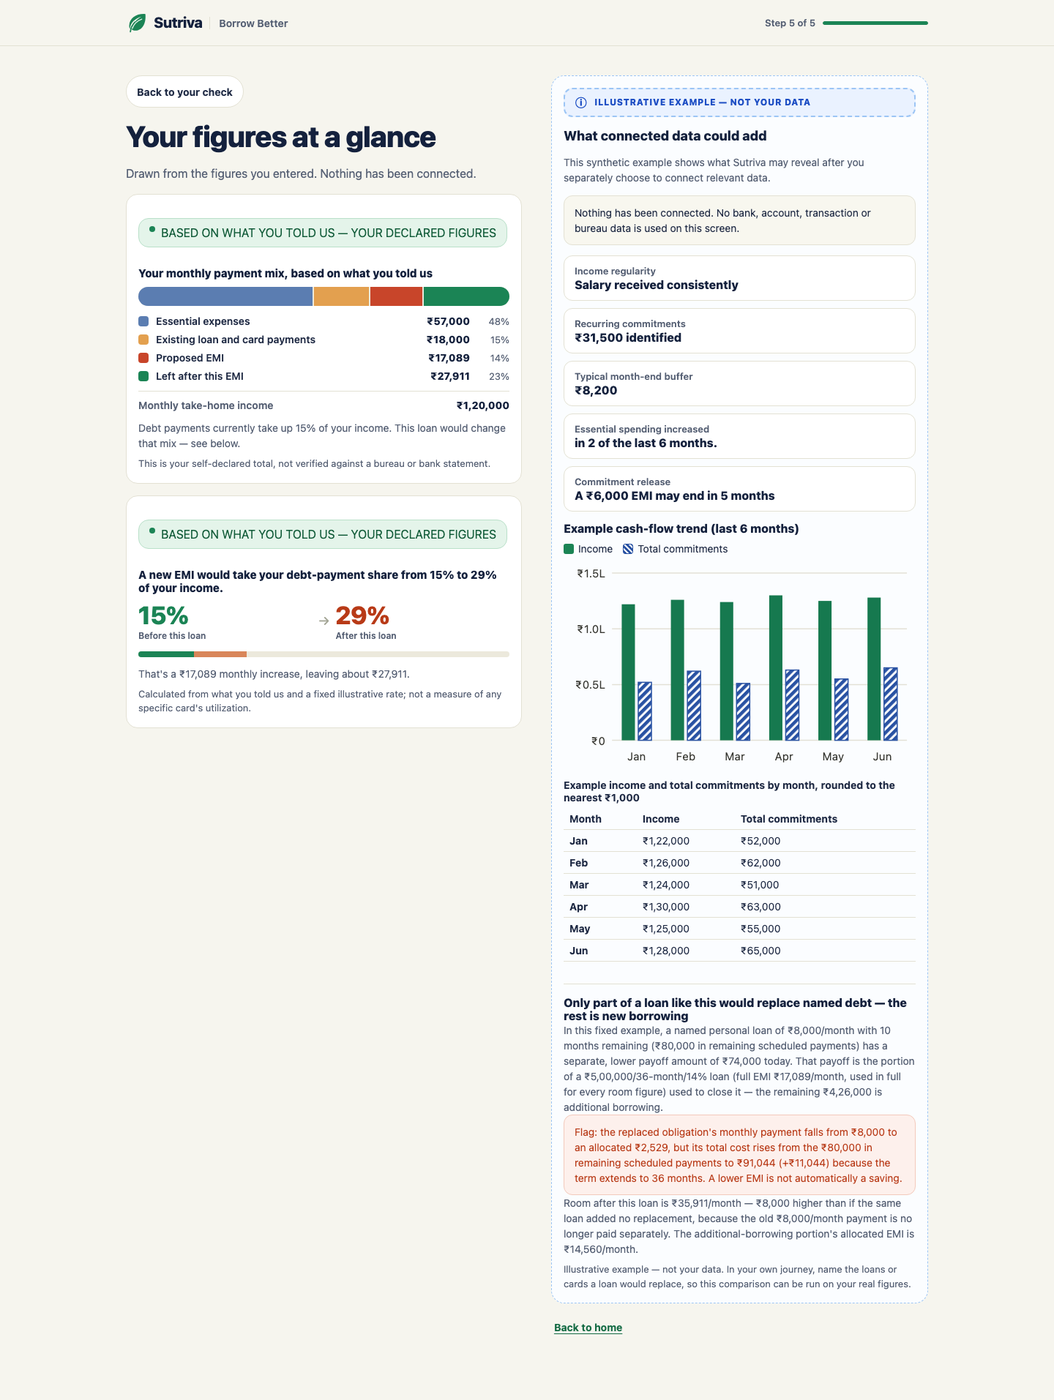
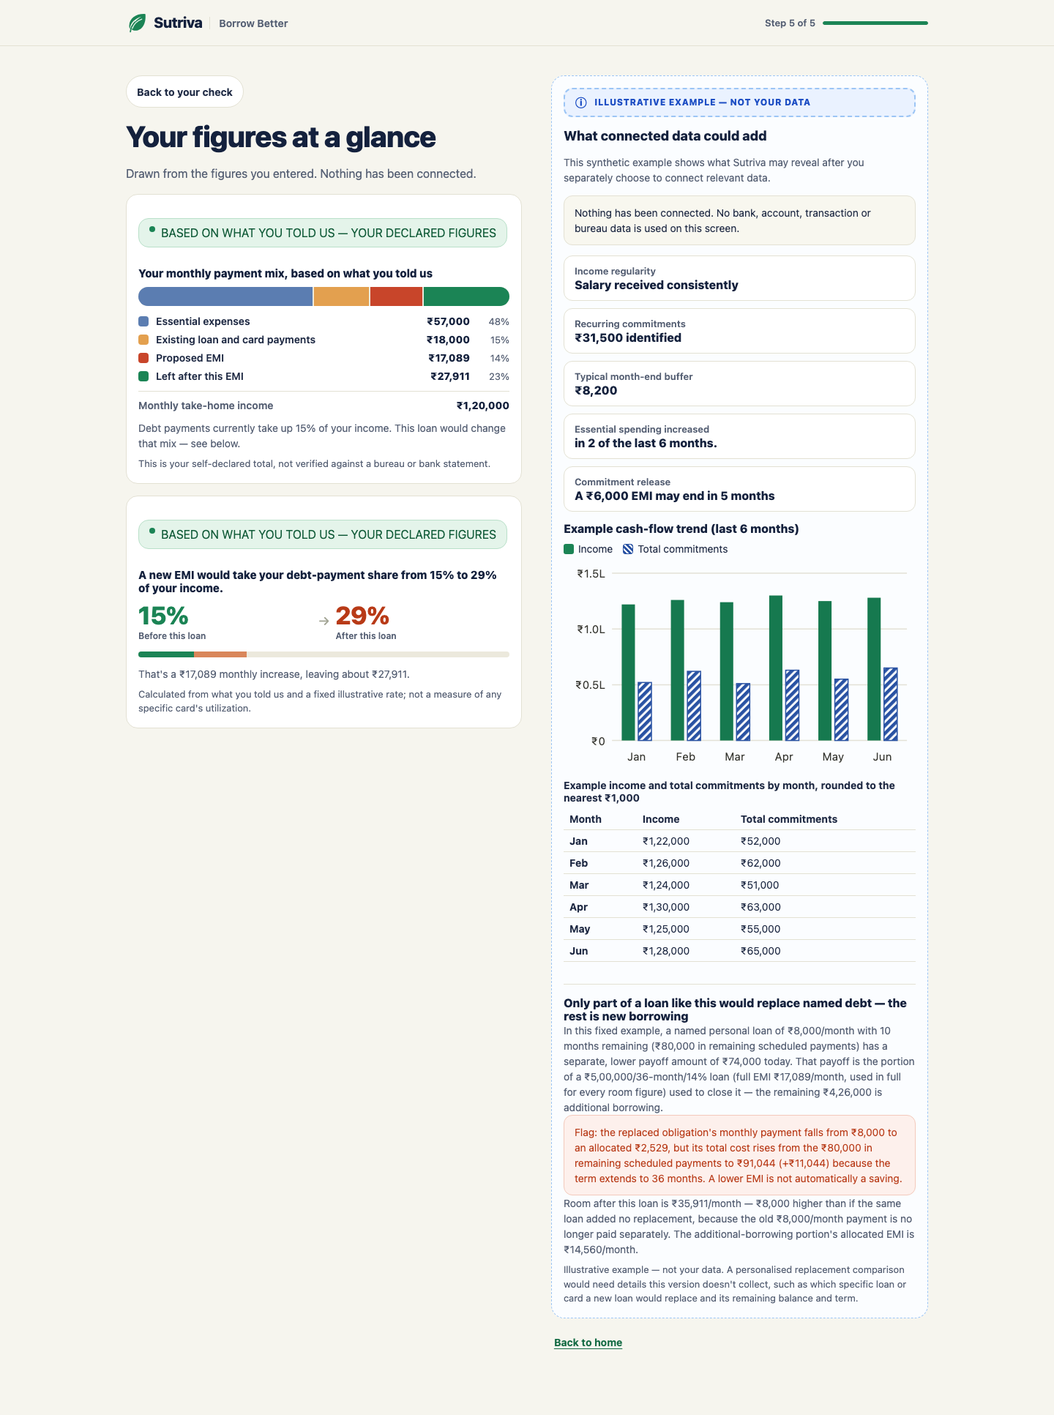
fix: remove unsupported certainty claims from Rewards/Borrow findings
Tightens the copy landed in PR #23, on the same branch. No redesign, no
new screens.

1. Rewards, "carries a balance": removed the claim that interest is
   "likely" or "usually" larger than the customer's rewards — we don't
   know their balance or APR, so that compared a real figure with an
   unknown one. The headline now reads "Before interest, your estimated
   net value is ₹X," explicitly labelled as an estimate. The separate
   ₹10,000-balance/30–42%-APR illustration is unchanged in its figures but
   now states plainly it is "a separate illustration, not a calculation
   of your own interest cost," so it is never read as a comparison with
   the customer's own number.

2. Rewards, "below fee, pays in full": removed "exactly," "not an
   estimate" and "complete result" — the annual reward figure is
   arithmetic on entered/extrapolated inputs, not a guarantee. The
   headline now says "about ₹X ... based on what you entered," and the
   explanation keeps the useful ₹80 − ₹500 = −₹420 calculation explicit.
   "Pays in full" (above fee) gets the same "about"/"based on what you
   entered, assuming you continue paying in full" framing.

3. Borrow Step 5: removed "name the loans or cards a loan would replace,
   so this comparison can be run on your real figures" from the
   "Better structure" panel and the equivalent "tell us which specific
   loans or cards ... so we can compare like-for-like" from
[…]

diff --git a/apps/pwa/app/money-value/rewardsInsight.ts b/apps/pwa/app/money-value/rewardsInsight.ts
@@ -14,10 +14,21 @@ import type { RewardsCheckResult } from "./rewardsApi";
  * `estimated_net_annual_value`, because that field is null whenever interest is unknown even though
  * rewards and fee are both already known — the very "dead end" this module exists to remove. Rewards and
  * fee are always returned once declared, so this figure is always computable and is never withheld.
+ *
+ * This is still an estimate, not a guarantee: the annual reward figure is arithmetic on what the customer
+ * entered (often a monthly amount extrapolated to a year) and assumes their spending and payment pattern
+ * continue. Copy here says so, and never claims a stronger, "exact" or "final" result than that.
+ *
+ * A genuinely known interest cost — `interest_input_basis === "known"`, which the API contract allows even
+ * though today's 1.1A Step 2/3 questions don't collect a balance or rate — always takes priority over the
+ * payment-behaviour situations below: if the backend has already worked out a real net value including
+ * interest, that is shown as the complete result instead of a before-interest estimate, so the headline
+ * never contradicts the "Based on" card's own interest line.
  */
 
 export type RewardsSituationCode =
   | "value_unknown"
+  | "known_interest"
   | "below_fee_pays_in_full"
   | "below_fee_other"
   | "above_fee_interest_unknown"
@@ -26,9 +37,9 @@ export type RewardsSituationCode =
 
 export type RewardsFinding = {
   code: RewardsSituationCode;
-  /** Rewards minus fee. Null only when the reward value itself is unknown. */
+  /** Rewards minus fee (or, for "known_interest", the real interest-adjusted net). Null only when the reward value itself is unknown. */
   netBeforeInterest: number | null;
-  /** True once this is the customer's complete result (pays in full: interest is zero, not merely excluded). */
+  /** True once this is the customer's complete result: interest is genuinely zero or genuinely known, not merely excluded. */
   isFinal: boolean;
   headline: string;
   explanation: string;
@@ -39,8 +50,8 @@ export type RewardsFinding = {
 
 /**
  * The fixed, clearly fictional interest illustration shown only when the customer says they carry a
- * balance. It is never derived from the customer's own spend or fee, never blended into their net value,
- * and never presented as their own APR or balance.
+ * balance. It is never derived from the customer's own spend or fee, never compared with or blended into
+ * their own net value or rewards figure, and never presented as their own APR or balance.
  */
 export const ILLUSTRATIVE_BALANCE = 10000;
 export const ILLUSTRATIVE_APR_LOW = 0.3;
@@ -50,7 +61,7 @@ export const ILLUSTRATIVE_INTEREST_HIGH = Math.round(ILLUSTRATIVE_BALANCE * ILLU
 
 const NO_ESTIMATE = "Nothing is estimated in its place.";
 
-function findingFor(code: RewardsSituationCode, net: number, rewards: number, fee: number): RewardsFinding {
+function findingFor(code: Exclude<RewardsSituationCode, "value_unknown" | "known_interest">, net: number, rewards: number, fee: number): RewardsFinding {
   const netDisplay = formatRupeesExact(Math.abs(net));
   const rewardsDisplay = formatRupeesExact(rewards);
   const feeDisplay = formatRupeesExact(fee);
@@ -60,11 +71,11 @@ function findingFor(code: RewardsSituationCode, net: number, rewards: number, fe
         code,
         netBeforeInterest: net,
         isFinal: true,
-        headline: `Your card costs exactly ${netDisplay} more than its rewards each year — this is your full result, not an estimate.`,
-        explanation: `You earn about ${rewardsDisplay} a year in rewards and pay a ${feeDisplay} annual fee.`,
-        why: "You pay in full, so there is no interest to add — this is your complete result.",
+        headline: `Your card costs about ${netDisplay} more than its rewards each year, based on what you entered.`,
+        explanation: `Based on the figures you entered — about ${rewardsDisplay} a year in rewards and a ${feeDisplay} annual fee — this comes to ${rewardsDisplay} − ${feeDisplay} = ${net < 0 ? "−" : ""}${netDisplay}.`,
+        why: "You pay in full, so no interest applies here — this assumes your reward rate, fee and payment pattern stay the same.",
         tryThis: "Check whether your fee can be waived, or compare this against a no-fee card.",
-        limitation: "None beyond the entered reward rate and fee — this figure is not an estimate.",
+        limitation: "Based on the reward rate and fee you entered, assumed to continue at the same level.",
       };
     case "below_fee_other":
       return {
@@ -93,33 +104,57 @@ function findingFor(code: RewardsSituationCode, net: number, rewards: number, fe
         code,
         netBeforeInterest: net,
         isFinal: true,
-        headline: `Your net value is ${netDisplay} a year, with no interest cost.`,
-        explanation: `You pay in full, so no interest is added — your net value stands at ${netDisplay}.`,
+        headline: `Your net value is about ${netDisplay} a year, with no interest cost.`,
+        explanation: `Based on what you entered, and assuming you continue paying in full, no interest is added — your net value stands at ${netDisplay}.`,
         why: "Paying in full each month means interest never applies to this card.",
         tryThis: "None required — optionally, see how this changes if your fee is waived.",
-        limitation: "Assumes you continue paying in full.",
+        limitation: "Assumes you continue paying in full, and that your reward rate and fee stay the same.",
       };
     case "carries_balance":
       return {
         code,
         netBeforeInterest: net,
         isFinal: false,
-        headline: `Your net value before interest is ${netDisplay}, but interest on your balance is likely larger than your rewards.`,
-        explanation: `Your net value is ${netDisplay} before interest. Interest is usually far larger than the rewards you earn on it.`,
-        why: "Rewards are calculated before interest. If you carry a balance, interest is usually far larger than the rewards you earn on it.",
-        tryThis: "If you often carry a balance, paying it down is likely worth more than these rewards.",
-        limitation: "The interest range shown is illustrative, not your card's actual rate.",
+        headline: `Before interest, your estimated net value is ${netDisplay}.`,
+        explanation: `This is an estimate based on the rewards and fee you entered, before any interest. We don't know your card balance or interest rate, so no interest is included here.`,
+        why: "Interest depends on your balance and your card's interest rate, which we don't have.",
+        tryThis: "See the separate illustration below of what carrying a balance could cost, based on an example balance and rate — not your own figures.",
+        limitation: "This before-interest figure is an estimate based on what you entered; it does not include any interest you may pay.",
       };
     default:
       throw new Error(`unreachable: ${code}`);
   }
 }
 
+/** The one situation where the backend already knows a real, interest-adjusted net value. */
+function knownInterestFinding(result: RewardsCheckResult, net: number, rewards: number, fee: number): RewardsFinding {
+  const interest = result.estimated_annual_interest_cost ?? 0;
+  const netDisplay = formatRupeesExact(Math.abs(net));
+  const rewardsDisplay = formatRupeesExact(rewards);
+  const feeDisplay = formatRupeesExact(fee);
+  const interestDisplay = formatRupeesExact(interest);
+  return {
+    code: "known_interest",
+    netBeforeInterest: net,
+    isFinal: true,
+    headline:
+      net < 0
+        ? `Your card costs about ${netDisplay} more than its rewards each year, including your estimated interest cost.`
+        : `Your net value is about ${netDisplay} a year, including your estimated interest cost.`,
+    explanation: `Based on what you entered: about ${rewardsDisplay} a year in rewards, a ${feeDisplay} annual fee, and an estimated ${interestDisplay} in interest.`,
+    why: "This includes your estimated interest cost, not just rewards minus fee.",
+    tryThis: net < 0 ? "Check whether your fee can be waived, or compare this against a no-fee card." : "None required — this already includes your estimated interest cost.",
+    limitation: "Includes an estimated annual interest cost, based on the balance and rate you provided.",
+  };
+}
+
 /**
- * Priority order (first match wins): reward value unknown; below fee and pays in full (final, exact);
- * below fee otherwise (hedged); above fee with interest unknown; pays in full (final); carries a balance
- * (before-interest figure plus a separate fixed illustration). Payment behaviour is checked in both the
- * below-fee and above-fee branches, not only one of them.
+ * Priority order (first match wins): reward value unknown; a genuinely known interest cost (rare in
+ * today's 1.1A flow, but always shown as the complete result when the backend has it, never contradicted
+ * by a before-interest estimate); below fee and pays in full (an estimate, not a guarantee); below fee
+ * otherwise (hedged); above fee with interest unknown; pays in full; carries a balance (before-interest
+ * estimate plus a separate fixed illustration). Payment behaviour is checked in both the below-fee and
+ * above-fee branches, not only one of them.
  */
 export function selectRewardsSituation(result: RewardsCheckResult, balanceBehavior: BalanceBehavior | null): RewardsFinding {
   const rewards = result.estimated_annual_rewards;
@@ -137,6 +172,11 @@ export function selectRewardsSituation(result: RewardsCheckResult, balanceBehavi
   }
 
   const fee = result.annual_card_fee;
+
+  if (result.interest_input_basis === "known" && result.estimated_net_annual_value !== null) {
+    return knownInterestFinding(result, result.estimated_net_annual_value, rewards, fee);
+  }
+
   const net = rewards - fee;
 
   if (net < 0) {
@@ -149,5 +189,5 @@ export function selectRewardsSituation(result: RewardsCheckResult, balanceBehavi
 
 /** The separate, explicitly fictional interest illustration shown only for the "carries a balance" situation. */
 export function illustrativeInterestLine(): string {
-  return `For illustration only — someone carrying a ₹${ILLUSTRATIVE_BALANCE.toLocaleString("en-IN")} balance at an illustrative ${Math.round(ILLUSTRATIVE_APR_LOW * 100)}–${Math.round(ILLUSTRATIVE_APR_HIGH * 100)}% simple APR would pay roughly ₹${ILLUSTRATIVE_INTEREST_LOW.toLocaleString("en-IN")}–₹${ILLUSTRATIVE_INTEREST_HIGH.toLocaleString("en-IN")} a year in interest.`;
+  return `For illustration only — someone carrying a ₹${ILLUSTRATIVE_BALANCE.toLocaleString("en-IN")} balance at an illustrative ${Math.round(ILLUSTRATIVE_APR_LOW * 100)}–${Math.round(ILLUSTRATIVE_APR_HIGH * 100)}% simple APR would pay roughly ₹${ILLUSTRATIVE_INTEREST_LOW.toLocaleString("en-IN")}–₹${ILLUSTRATIVE_INTEREST_HIGH.toLocaleString("en-IN")} a year in interest. This is a separate illustration, not a calculation of your own interest cost.`;
 }

diff --git a/apps/pwa/app/money-value/rewardsInsight.test.ts b/apps/pwa/app/money-value/rewardsInsight.test.ts
@@ -26,12 +26,18 @@ describe("selectRewardsSituation", () => {
     expect(finding.headline).toBe("We need your monthly reward value to show anything here.");
   });
 
-  it("worked check: rewards ₹80, fee ₹500 → −₹420, shown as the exact final figure when paying in full", () => {
+  it("worked check: rewards ₹80, fee ₹500 → −₹420 when paying in full, stated as an estimate from what was entered, not an exact/complete/final claim", () => {
     const finding = selectRewardsSituation({ ...base, estimated_annual_rewards: 80, annual_card_fee: 500 }, "pay_in_full");
     expect(finding.code).toBe("below_fee_pays_in_full");
     expect(finding.netBeforeInterest).toBe(-420);
     expect(finding.isFinal).toBe(true);
-    expect(finding.headline).toBe("Your card costs exactly ₹420 more than its rewards each year — this is your full result, not an estimate.");
+    expect(finding.headline).toBe("Your card costs about ₹420 more than its rewards each year, based on what you entered.");
+    expect(finding.headline).not.toMatch(/exactly|not an estimate|complete result/i);
+    expect(finding.explanation).toContain("₹80");
+    expect(finding.explanation).toContain("₹500");
+    expect(finding.explanation).toContain("−₹420");
+    expect(finding.explanation).not.toMatch(/not an estimate|complete result/i);
+    expect(finding.limitation).not.toMatch(/not an estimate/i);
   });
 
   it("shows the same −₹420 as a hedged figure, not a final one, when the customer carries a balance or is not sure", () => {
@@ -58,21 +64,68 @@ describe("selectRewardsSituation", () => {
     expect(finding.netBeforeInterest).toBe(6800);
   });
 
-  it("shows ₹6,800 as the final figure, with no interest cost, when the customer pays in full", () => {
+  it("shows ₹6,800 as the figure, with no interest cost, when the customer pays in full", () => {
     const finding = selectRewardsSituation({ ...base, estimated_annual_rewards: 10800, annual_card_fee: 4000 }, "pay_in_full");
     expect(finding.code).toBe("pays_in_full");
     expect(finding.netBeforeInterest).toBe(6800);
     expect(finding.isFinal).toBe(true);
-    expect(finding.headline).toBe("Your net value is ₹6,800 a year, with no interest cost.");
+    expect(finding.headline).toBe("Your net value is about ₹6,800 a year, with no interest cost.");
   });
 
-  it("shows the before-interest ₹6,800 plus the carries-a-balance framing when the customer carries a balance", () => {
+  it("shows the before-interest ₹6,800 as an estimate for 'carries a balance', without claiming to know their interest exceeds their rewards", () => {
     const finding = selectRewardsSituation({ ...base, estimated_annual_rewards: 10800, annual_card_fee: 4000 }, "carry_balance");
     expect(finding.code).toBe("carries_balance");
     expect(finding.netBeforeInterest).toBe(6800);
     expect(finding.isFinal).toBe(false);
-    expect(finding.headline).toContain("₹6,800");
-    expect(finding.headline).toContain("interest on your balance is likely larger than your rewards");
+    expect(finding.headline).toBe("Before interest, your estimated net value is ₹6,800.");
+    // We don't know the customer's balance or APR, so nothing here may claim their interest is
+    // "likely" or "usually" larger than their rewards — that would compare a real figure with an unknown one.
+    const allCopy = `${finding.headline} ${finding.explanation} ${finding.why} ${finding.tryThis} ${finding.limitation}`;
+    expect(allCopy).not.toMatch(/likely (is |be )?larger|usually (far )?larger|interest.*larger than.*rewards/i);
+    expect(finding.explanation).toContain("estimate");
+  });
+
+  it("shows the backend's own known interest-adjusted net value as the complete result, ahead of any payment-behaviour situation", () => {
+    // interest_input_basis "known" exists in the API contract (the legacy page's "I know my balance and
+    // rate" path) even though today's 1.1A Step 2/3 never collects enough to produce it. If the backend
+    // ever does return it, the headline must use it, not silently fall back to a before-interest estimate
+    // that would then contradict the "Based on" card's own interest line.
+    const known: RewardsCheckResult = {
+      ...base,
+      estimated_annual_rewards: 10800,
+      annual_card_fee: 4000,
+      interest_input_basis: "known",
+      interest_value_known: true,
+      estimated_annual_interest_cost: 3000,
+      estimated_net_annual_value: 3800,
+    };
+    const finding = selectRewardsSituation(known, "carry_balance");
+    expect(finding.code).toBe("known_interest");
+    expect(finding.netBeforeInterest).toBe(3800);
+    expect(finding.isFinal).toBe(true);
+    expect(finding.headline).toBe("Your net value is about ₹3,800 a year, including your estimated interest cost.");
+    expect(finding.explanation).toContain("₹3,000");
+  });
+
+  it("states a known negative net value (interest included) as costing more than rewards, not as a before-interest estimate", () => {
+    const known: RewardsCheckResult = {
+      ...base,
+      estimated_annual_rewards: 10800,
+      annual_card_fee: 4000,
+      interest_input_basis: "known",
+      interest_value_known: true,
+      estimated_annual_interest_cost: 9000,
+      estimated_net_annual_value: -2200,
+    };
+    const finding = selectRewardsSituation(known, null);
+    expect(finding.code).toBe("known_interest");
+    expect(finding.netBeforeInterest).toBe(-2200);
+    expect(finding.headline).toBe("Your card costs about ₹2,200 more than its rewards each year, including your estimated interest cost.");
+  });
+
+  it("still shows the missing-value situation when the reward value is unknown, even if interest is known", () => {
+    const finding = selectRewardsSituation({ ...base, estimated_annual_rewards: null, interest_input_basis: "known", estimated_net_annual_value: -500 }, null);
+    expect(finding.code).toBe("value_unknown");
   });
 
   it("change one input, watch the conclusion move: fee ₹4,000 → ₹0 turns 'the fee is the drag' into 'you keep the full amount'", () => {

diff --git a/apps/pwa/app/borrow-better/borrowInsight.ts b/apps/pwa/app/borrow-better/borrowInsight.ts
@@ -86,15 +86,20 @@ export type ConsolidationCaveat = {
  * specific obligations a loan replaces, so the full amount is treated as additional borrowing, not a
  * confirmed replacement. Returns null for any other purpose — this caveat is never shown as a conclusion
  * about a customer who didn't select debt consolidation.
+ *
+ * `tryThis` never instructs the customer to "tell us" which obligations a loan replaces: this journey has
+ * no field to collect that, so doing so would be a dead end (an instruction with no way to act on it). It
+ * points instead to the illustrative "Better structure" panel, which shows what a genuine replacement
+ * comparison would look like once those details are known.
  */
 export function consolidationCaveat(loanPurpose: string, loanAmountDisplay: string): ConsolidationCaveat | null {
   if (loanPurpose !== "debt_consolidation") return null;
   return {
     headline: "This is new borrowing alongside your existing payments, not a straight replacement.",
-    explanation: `We don't yet know which specific obligation(s) this ${loanAmountDisplay} loan replaces, so the full amount is treated as additional borrowing on top of what you already pay.`,
+    explanation: `We don't know which specific obligation(s) this ${loanAmountDisplay} loan replaces, so the full amount is treated as additional borrowing on top of what you already pay.`,
     why: "Calling this consolidation would overstate how much existing debt it actually clears.",
-    tryThis: "Tell us which specific loans or cards this would replace, so we can compare like-for-like.",
-    limitation: "We have not confirmed this replaces any specific existing obligation.",
+    tryThis: "See the illustrative example below of how a genuine replacement comparison would work, once specific obligations are known.",
+    limitation: "A personalised replacement comparison would need details this version doesn't collect, such as which obligation a loan replaces and its remaining balance and term.",
   };
 }
 

diff --git a/apps/pwa/app/money-value/RewardsJourney.test.tsx b/apps/pwa/app/money-value/RewardsJourney.test.tsx
@@ -623,11 +623,15 @@ describe("Rewards Intelligence 1.1A steps 2-5", () => {
       // Rewards minus fee is known and shown, not withheld as "can't calculate" — the "dead end" this fixes.
       expect(screen.getByText("Net annual value (before interest)").nextSibling).toHaveTextContent("₹6,800");
       expect(screen.getByText("Interest impact is unknown. No interest cost has been assumed.")).toBeInTheDocument();
-      expect(screen.getByText(/Your net value before interest is ₹6,800, but interest on your balance is likely larger than your rewards\./)).toBeInTheDocument();
-      // The separate, explicitly fictional illustration — never merged into the customer's own ₹6,800.
+      expect(screen.getByText("Before interest, your estimated net value is ₹6,800.")).toBeInTheDocument();
+      // Never claims to know that the customer's own interest is "likely" or "usually" larger than their
+      // rewards — we don't know their balance or APR, so that would compare a real figure with an unknown one.
+      expect(screen.queryByText(/likely.*larger|usually.*larger than.*rewards/i)).toBeNull();
+      // The separate, explicitly fictional illustration — never merged into or compared with the customer's own ₹6,800.
       expect(screen.getByText(/Illustrative only, not your figures/)).toBeInTheDocument();
       expect(screen.getByText(/₹10,000 balance/)).toBeInTheDocument();
       expect(screen.getByText(/₹3,000–₹4,200/)).toBeInTheDocument();
+      expect(screen.getByText(/not a calculation of your own interest cost/)).toBeInTheDocument();
     });
 
     it("shows an unknown reward value as unknown, not zero, with no chart until a value is entered", async () => {

diff --git a/apps/pwa/app/borrow-better/steps/ConnectedExampleStep.tsx b/apps/pwa/app/borrow-better/steps/ConnectedExampleStep.tsx
@@ -256,7 +256,7 @@ export function ConnectedExampleStep({ form, result, focusHeadingOnMount, exampl
               {`Room after this loan is ${formatRupees(WHOLE_LOAN_ROOM_AFTER)}/month — ${formatRupees(ROOM_DIFFERENCE_VS_ADDITIONAL_BORROWING_ONLY)} higher than if the same loan added no replacement, because the old ${formatRupees(OLD_OBLIGATION_MONTHLY_PAYMENT)}/month payment is no longer paid separately. The additional-borrowing portion's allocated EMI is ${formatRupees(ADDITIONAL_BORROWING_ALLOCATED_EMI)}/month.`}
             </p>
             <p className={ui.disclaimer} style={{ marginTop: 8 }}>
-              Illustrative example — not your data. In your own journey, name the loans or cards a loan would replace, so this comparison can be run on your real figures.
+              Illustrative example — not your data. A personalised replacement comparison would need details this version doesn&apos;t collect, such as which specific loan or card a new loan would replace and its remaining balance and term.
             </p>
           </section>
         </section>

diff --git a/apps/pwa/app/borrow-better/borrowInsight.test.ts b/apps/pwa/app/borrow-better/borrowInsight.test.ts
@@ -77,7 +77,14 @@ describe("consolidationCaveat", () => {
     expect(caveat).not.toBeNull();
     expect(caveat?.headline).toBe("This is new borrowing alongside your existing payments, not a straight replacement.");
     expect(caveat?.explanation).toContain("₹5,00,000");
-    expect(caveat?.limitation).toContain("not confirmed");
+    expect(caveat?.limitation).toContain("doesn't collect");
+  });
+
+  it("never instructs the customer to tell us which obligations a loan replaces — this journey collects no such field", () => {
+    const caveat = consolidationCaveat("debt_consolidation", "₹5,00,000");
+    const allCopy = `${caveat?.headline} ${caveat?.explanation} ${caveat?.why} ${caveat?.tryThis} ${caveat?.limitation}`;
+    expect(allCopy).not.toMatch(/tell us which|so we can compare|so this comparison can be run on your real figures/i);
+    expect(caveat?.tryThis).toContain("illustrative example");
   });
 
   it("is never shown for any other purpose, or when none was given", () => {
